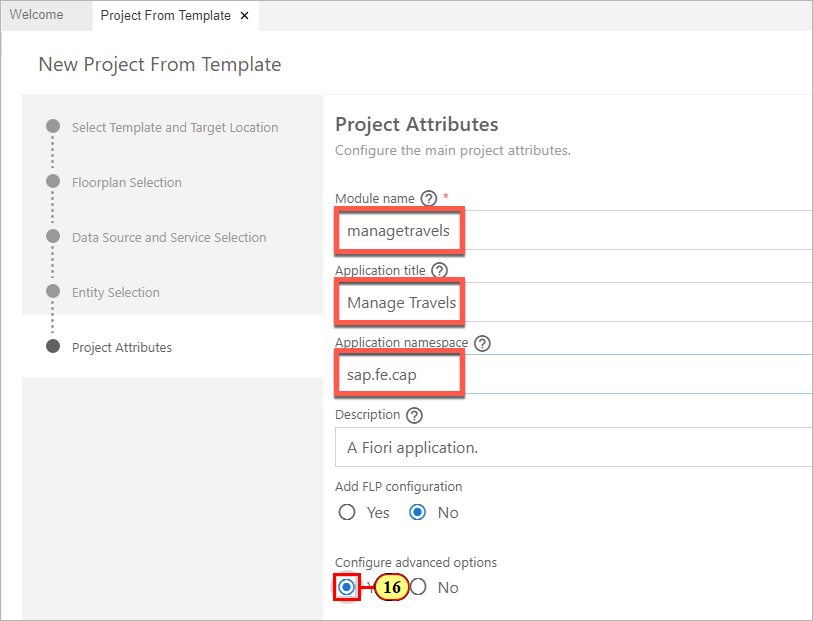
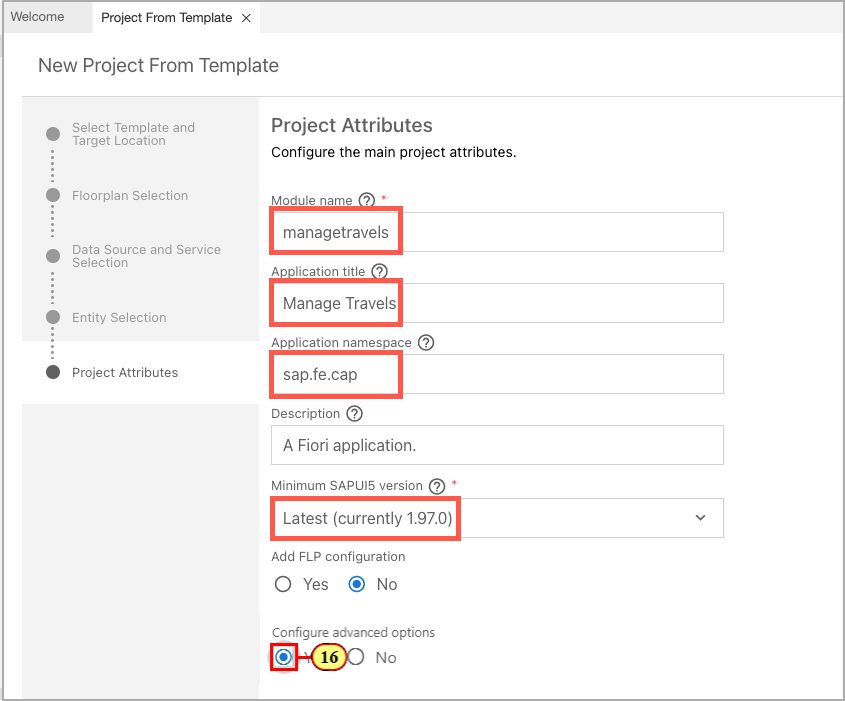
readme updated

diff --git a/exercises/ex1/README.md b/exercises/ex1/README.md
@@ -69,6 +69,9 @@ This will add an additional routing target allowing navigation from the object p
 
 ![mydevspace - SAP Business Application Studio - Google Chrome](images/img_012.png "mydevspace - SAP Business Application Studio - Google Chrome")
 
+Set the option **Automatically add table columns** to **No**.\
+![mydevspace - SAP Business Application Studio - Google Chrome](images/img_0121.png "mydevspace - SAP Business Application Studio - Google Chrome")
+
 \(15\) Click ![icon](images/fieldicon10.png).
 
 ![mydevspace - SAP Business Application Studio - Google Chrome](images/img_013.png "mydevspace - SAP Business Application Studio - Google Chrome")
@@ -84,19 +87,19 @@ In the wizard step **Project Attributes**, add the following attributes to the a
 - **Application Namespace**: sap.fe.cap\
 (namespace has to match exactly for some of the subsequent exercises to work properly)
 
+- **Minimum SAPUI5 version**: Stick to the latest version available (preselected).
+
 \(16\) Select **Yes** in order to configure advanced options.
 
 ![mydevspace - SAP Business Application Studio - Google Chrome](images/img_014.png "mydevspace - SAP Business Application Studio - Google Chrome")
 
-\(17\) Click to open the drop-down **UI5 version**.
+\(17\) Click to open the drop-down **UI5 theme**.
 
-\(18\) Select version **1.96.0**.
-Please note: in order to have some of the subsequent exercises working properly, don't choose **Latest** as UI5 version since it might still point to a version below 1.96.0 during TechEd2021.
-
+\(18\) Select **SAP Horizon (experimental)**.
 
 ![mydevspace - SAP Business Application Studio - Google Chrome](images/img_015.png "mydevspace - SAP Business Application Studio - Google Chrome")
 
-\(19\) Select **Yes** in order to skip generation of an additional associated annotation.cds file.
+\(19\) Select **Yes** in order to skip generation of an additional associated annotation.cds file.\
 The sample service already provides a basic set of UI annotations with file app/layouts.cds.
 
 ![mydevspace - SAP Business Application Studio - Google Chrome](images/img_016.png "mydevspace - SAP Business Application Studio - Google Chrome")
@@ -115,7 +118,7 @@ In **exercises 4 ff.**, we will extend the app based on **xml fragments**. We ne
 Enter the following script:
 
 ```js
-    "watch-managetravels": "PORT=4004 cds watch --open managetravels/webapp/index.html?sap-ui-xx-viewCache=false#fe-lrop-v4" 
+    "watch-managetravels": "cds watch --open managetravels/webapp/index.html?sap-ui-xx-viewCache=false#fe-lrop-v4" 
 ```
 
 ![mydevspace - SAP Business Application Studio - Google Chrome](images/img_017.png "mydevspace - SAP Business Application Studio - Google Chrome")
